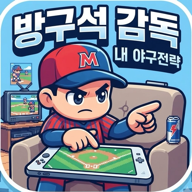
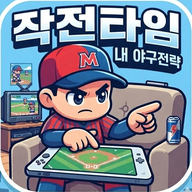
feat: 서비스 이름 '방구석 감독' → '작전타임' (화면 문구·약관·앱 설치 이름), 새 대표 그림과 앱 아이콘

diff --git a/templates/index.html b/templates/index.html
@@ -7,9 +7,9 @@
     <meta http-equiv="Cache-Control" content="no-cache, no-store, must-revalidate">
     <meta http-equiv="Pragma" content="no-cache">
     <meta http-equiv="Expires" content="0">
-    <title>방구석 감독</title>
+    <title>작전타임</title>
 {% include '_favicon.html' %}
-    <link rel="preload" as="image" href="/brand/hero.jpg?v=8" fetchpriority="high">
+    <link rel="preload" as="image" href="/brand/hero.webp?v=1" fetchpriority="high">
     <link rel="preload" as="image" href="/brand/mascot-head.png?v=6">
     <link href="https://fonts.googleapis.com/css2?family=Black+Han+Sans&display=swap" rel="stylesheet">
     <link rel="stylesheet" href="style.css?v=20261014_5">
@@ -93,8 +93,8 @@
         <div id="splash-screen" class="splash-overlay active" onclick="window.dismissSplash()"
             ontouchstart="window.dismissSplash()" onpointerdown="window.dismissSplash()">
             <div class="splash-content ballpark-splash" style="--team-color: {{ favorite_team_color or '#10b981' }};">
-                <h1 class="zg-wordmark sr-only">방구석 감독</h1>
-                <img class="splash-hero" src="/brand/hero.jpg?v=8" alt="" width="420" height="420" fetchpriority="high" decoding="async">
+                <h1 class="zg-wordmark sr-only">작전타임</h1>
+                <img class="splash-hero" src="/brand/hero.webp?v=1" alt="" width="420" height="420" fetchpriority="high" decoding="async">
                 <div class="splash-sheet">
                 <p class="zg-tagline">내 방에서 내리는 야구 작전</p>
 
@@ -141,12 +141,12 @@
                 <div class="brand-badge-glow">PRO BASEBALL PLATFORM</div>
                 <div class="landing-logo-wrapper">
                     <span class="landing-ball-icon">⚾</span>
-                    <h1 class="landing-brand-title">방구석 감독</h1>
+                    <h1 class="landing-brand-title">작전타임</h1>
                     <p class="landing-brand-subtitle">실시간 라이브 야구 감독 매니지먼트 플랫폼</p>
                 </div>
 
                 <div class="login-prompt-banner" style="margin: 10px 0 16px 0; padding: 12px 14px; background: rgba(56, 189, 248, 0.12); border: 1px solid rgba(56, 189, 248, 0.35); border-radius: 12px; color: #bae6fd; font-size: 0.92rem; font-weight: 600; line-height: 1.4;">
-                    ⚾ 방구석 감독 서비스를 이용하시려면 로그인이 필요합니다.
+                    ⚾ 작전타임 서비스를 이용하시려면 로그인이 필요합니다.
                 </div>
 
                 <!-- 2 Main Action Buttons Only -->

diff --git a/templates/privacy.html b/templates/privacy.html
@@ -3,7 +3,7 @@
 <head>
     <meta charset="UTF-8">
     <meta name="viewport" content="width=device-width, initial-scale=1.0">
-    <title>개인정보처리방침 - 방구석 감독</title>
+    <title>개인정보처리방침 - 작전타임</title>
 {% include '_favicon.html' %}
     <link href="https://fonts.googleapis.com/css2?family=Black+Han+Sans&display=swap" rel="stylesheet">
     <link rel="stylesheet" href="/style.css">
@@ -14,11 +14,11 @@
     <div class="auth-container legal-container">
         <div class="auth-logo" style="display: block; text-align: center;">⚾</div>
         <h1 class="auth-title">개인정보처리방침</h1>
-        <p class="auth-subtitle">방구석 감독 실시간 라이브 야구 감독 매니지먼트</p>
+        <p class="auth-subtitle">작전타임 실시간 라이브 야구 감독 매니지먼트</p>
         <p class="legal-meta">시행일: {{ legal_effective_date }}</p>
 
         <div class="legal-doc">
-            <p>방구석 감독(이하 "서비스")은 「개인정보 보호법」 등 관련 법령을 지키며, 이용자의 개인정보를 소중히 다룹니다. 이 방침은 서비스가 어떤 정보를 왜 수집하고, 어떻게 보관·파기하는지 알려 드립니다.</p>
+            <p>작전타임(이하 "서비스")은 「개인정보 보호법」 등 관련 법령을 지키며, 이용자의 개인정보를 소중히 다룹니다. 이 방침은 서비스가 어떤 정보를 왜 수집하고, 어떻게 보관·파기하는지 알려 드립니다.</p>
 
             <h2>1. 수집하는 개인정보</h2>
             <table>
@@ -70,7 +70,7 @@
             <h2>9. 개인정보 보호책임자 및 문의</h2>
             <p>개인정보 관련 문의, 열람·삭제 요청, 피해 구제는 아래로 연락해 주세요.</p>
             <ul>
-                <li>운영자: 방구석 감독 운영팀</li>
+                <li>운영자: 작전타임 운영팀</li>
                 <li>이메일: {% if contact_email %}<a href="mailto:{{ contact_email }}" style="color: #38bdf8;">{{ contact_email }}</a>{% else %}(등록 예정){% endif %}</li>
             </ul>
             <p>개인정보 침해에 대한 상담이 필요하시면 개인정보침해신고센터(privacy.kisa.or.kr, 국번 없이 118), 개인정보분쟁조정위원회(www.kopico.go.kr, 1833-6972)에 문의하실 수 있습니다.</p>

diff --git a/templates/terms.html b/templates/terms.html
@@ -3,7 +3,7 @@
 <head>
     <meta charset="UTF-8">
     <meta name="viewport" content="width=device-width, initial-scale=1.0">
-    <title>이용약관 - 방구석 감독</title>
+    <title>이용약관 - 작전타임</title>
 {% include '_favicon.html' %}
     <link href="https://fonts.googleapis.com/css2?family=Black+Han+Sans&display=swap" rel="stylesheet">
     <link rel="stylesheet" href="/style.css">
@@ -14,12 +14,12 @@
     <div class="auth-container legal-container">
         <div class="auth-logo" style="display: block; text-align: center;">⚾</div>
         <h1 class="auth-title">이용약관</h1>
-        <p class="auth-subtitle">방구석 감독 실시간 라이브 야구 감독 매니지먼트</p>
+        <p class="auth-subtitle">작전타임 실시간 라이브 야구 감독 매니지먼트</p>
         <p class="legal-meta">시행일: {{ legal_effective_date }}</p>
 
         <div class="legal-doc">
             <h2>제1조 (목적)</h2>
-            <p>이 약관은 방구석 감독(이하 "서비스")이 제공하는 실시간 야구 감독 매니지먼트 게임 및 관련 서비스의 이용 조건과 절차, 이용자와 서비스의 권리·의무를 정하는 것을 목적으로 합니다.</p>
+            <p>이 약관은 작전타임(이하 "서비스")이 제공하는 실시간 야구 감독 매니지먼트 게임 및 관련 서비스의 이용 조건과 절차, 이용자와 서비스의 권리·의무를 정하는 것을 목적으로 합니다.</p>
 
             <h2>제2조 (회원가입)</h2>
             <ul>

diff --git a/templates/social_signup.html b/templates/social_signup.html
@@ -3,7 +3,7 @@
 <head>
     <meta charset="UTF-8">
     <meta name="viewport" content="width=device-width, initial-scale=1.0">
-    <title>방구석 감독</title>
+    <title>작전타임</title>
 {% include '_favicon.html' %}
     <link href="https://fonts.googleapis.com/css2?family=Black+Han+Sans&display=swap" rel="stylesheet">
     <link rel="stylesheet" href="/style.css">
@@ -11,9 +11,9 @@
     <link href="https://fonts.googleapis.com/css2?family=Orbitron:wght@600;800;900&family=Noto+Sans+KR:wght@400;600;700;900&display=swap" rel="stylesheet">
 </head>
 <body>
-    <div class="auth-hero"><img src="/brand/hero.jpg?v=8" fetchpriority="high" alt="방구석 감독 - 내 야구전략" width="440" height="440"></div>
+    <div class="auth-hero"><img src="/brand/hero.webp?v=1" fetchpriority="high" alt="작전타임 - 내 야구전략" width="440" height="440"></div>
     <div class="auth-container">
-        <h1 class="auth-title sr-only">방구석 감독</h1>
+        <h1 class="auth-title sr-only">작전타임</h1>
         <p class="auth-subtitle">{{ provider_name }} 계정으로 시작합니다</p>
         <div class="auth-card-header">감독 정보 설정</div>
         {% if error %}

diff --git a/templates/login.html b/templates/login.html
@@ -3,7 +3,7 @@
 <head>
     <meta charset="UTF-8">
     <meta name="viewport" content="width=device-width, initial-scale=1.0">
-    <title>방구석 감독</title>
+    <title>작전타임</title>
 {% include '_favicon.html' %}
     <link href="https://fonts.googleapis.com/css2?family=Black+Han+Sans&display=swap" rel="stylesheet">
     <link rel="stylesheet" href="/style.css">
@@ -11,9 +11,9 @@
     <link href="https://fonts.googleapis.com/css2?family=Orbitron:wght@600;800;900&family=Noto+Sans+KR:wght@400;600;700;900&display=swap" rel="stylesheet">
 </head>
 <body>
-    <div class="auth-hero"><img src="/brand/hero.jpg?v=8" fetchpriority="high" alt="방구석 감독 - 내 야구전략" width="440" height="440"></div>
+    <div class="auth-hero"><img src="/brand/hero.webp?v=1" fetchpriority="high" alt="작전타임 - 내 야구전략" width="440" height="440"></div>
     <div class="auth-container">
-        <h1 class="auth-title sr-only">방구석 감독</h1>
+        <h1 class="auth-title sr-only">작전타임</h1>
         <div class="auth-card-header">로그인 · 회원가입</div>
         {% if error %}
         <div class="error-alert">

diff --git a/templates/admin_users.html b/templates/admin_users.html
@@ -3,7 +3,7 @@
 <head>
     <meta charset="UTF-8">
     <meta name="viewport" content="width=device-width, initial-scale=1.0">
-    <title>관리자 콘솔 - 방구석 감독 회원 목록</title>
+    <title>관리자 콘솔 - 작전타임 회원 목록</title>
 {% include '_favicon.html' %}
     <link href="https://fonts.googleapis.com/css2?family=Orbitron:wght@600;800;900&family=Noto+Sans+KR:wght@400;600;700;900&display=swap" rel="stylesheet">
     <style>
@@ -417,7 +417,7 @@
                 <div class="header-logo-icon">⚾</div>
                 <div class="header-title-box">
                     <h1>
-                        방구석 감독 관리자 콘솔
+                        작전타임 관리자 콘솔
                         <span class="security-status-tag">SECURED</span>
                     </h1>
                     <p>실시간 회원 명부 및 응원 구단 현황</p>

diff --git a/templates/_favicon.html b/templates/_favicon.html
@@ -1,7 +1,7 @@
-    <link rel="icon" type="image/png" sizes="32x32" href="/brand/app-icon-32.png?v=1">
-    <link rel="icon" type="image/png" sizes="64x64" href="/brand/app-icon-64.png?v=1">
-    <link rel="apple-touch-icon" sizes="180x180" href="/brand/app-icon-180.png?v=1">
+    <link rel="icon" type="image/png" sizes="32x32" href="/brand/app-icon-32.png?v=2">
+    <link rel="icon" type="image/png" sizes="64x64" href="/brand/app-icon-64.png?v=2">
+    <link rel="apple-touch-icon" sizes="180x180" href="/brand/app-icon-180.png?v=2">
     <link rel="manifest" href="/manifest.json?v=1">
     <meta name="theme-color" content="#080c14">
-    <meta name="apple-mobile-web-app-title" content="방구석 감독">
-    <meta name="application-name" content="방구석 감독">
+    <meta name="apple-mobile-web-app-title" content="작전타임">
+    <meta name="application-name" content="작전타임">

diff --git a/templates/admin_auth.html b/templates/admin_auth.html
@@ -3,7 +3,7 @@
 <head>
     <meta charset="UTF-8">
     <meta name="viewport" content="width=device-width, initial-scale=1.0">
-    <title>관리자 보안 인증 - 방구석 감독</title>
+    <title>관리자 보안 인증 - 작전타임</title>
 {% include '_favicon.html' %}
     <link href="https://fonts.googleapis.com/css2?family=Orbitron:wght@600;800;900&family=Noto+Sans+KR:wght@400;600;700;900&display=swap" rel="stylesheet">
     <style>
@@ -190,7 +190,7 @@
             💡 URL 뒤에 <code>?code=비밀코드</code>를 입력하여 직접 인증 후 접속하실 수도 있습니다.
         </div>
 
-        <a href="/" class="back-link">← 방구석 감독 서비스 메인으로 돌아가기</a>
+        <a href="/" class="back-link">← 작전타임 서비스 메인으로 돌아가기</a>
     </div>
 </body>
 </html>

diff --git a/templates/not_found.html b/templates/not_found.html
@@ -3,7 +3,7 @@
 <head>
     <meta charset="UTF-8">
     <meta name="viewport" content="width=device-width, initial-scale=1.0">
-    <title>페이지를 찾을 수 없어요 - 방구석 감독</title>
+    <title>페이지를 찾을 수 없어요 - 작전타임</title>
 {% include '_favicon.html' %}
     <link href="https://fonts.googleapis.com/css2?family=Black+Han+Sans&display=swap" rel="stylesheet">
     <link rel="stylesheet" href="/auth.css">

diff --git a/templates/admin_games.html b/templates/admin_games.html
@@ -3,7 +3,7 @@
 <head>
     <meta charset="UTF-8">
     <meta name="viewport" content="width=device-width, initial-scale=1.0">
-    <title>경기·순위 관리 - 방구석 감독 관리자</title>
+    <title>경기·순위 관리 - 작전타임 관리자</title>
 {% include '_favicon.html' %}
     <link href="https://fonts.googleapis.com/css2?family=Noto+Sans+KR:wght@400;600;700;900&display=swap" rel="stylesheet">
     <style>

diff --git a/static/app.js b/static/app.js
@@ -1,5 +1,5 @@
 /* ==========================================================================
-   방구석 감독 - Client Application Script (Master User Flow & Auth / Friend Hub)
+   작전타임 - Client Application Script (Master User Flow & Auth / Friend Hub)
    ========================================================================== */
 
 let sseSource = null;

diff --git a/static/auth.css b/static/auth.css
@@ -379,7 +379,7 @@ body {
 .form-hint.msg-error { color: #f87171; }
 .form-hint.msg-info { color: #94a3b8; }
 
-/* 방구석 감독 로고 (로그인·가입 화면) */
+/* 작전타임 로고 (로그인·가입 화면) */
 .auth-logo-emblem {
     display: inline-block;
     animation: none !important;
